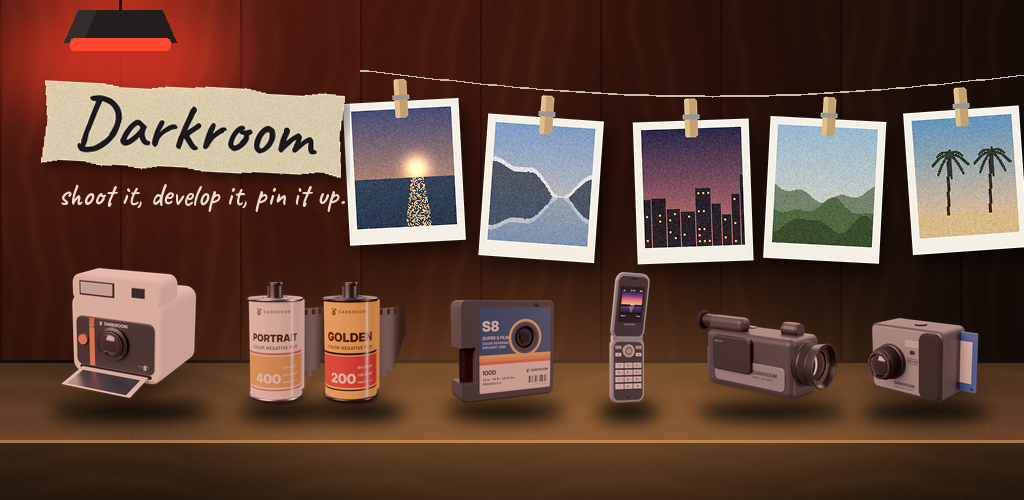
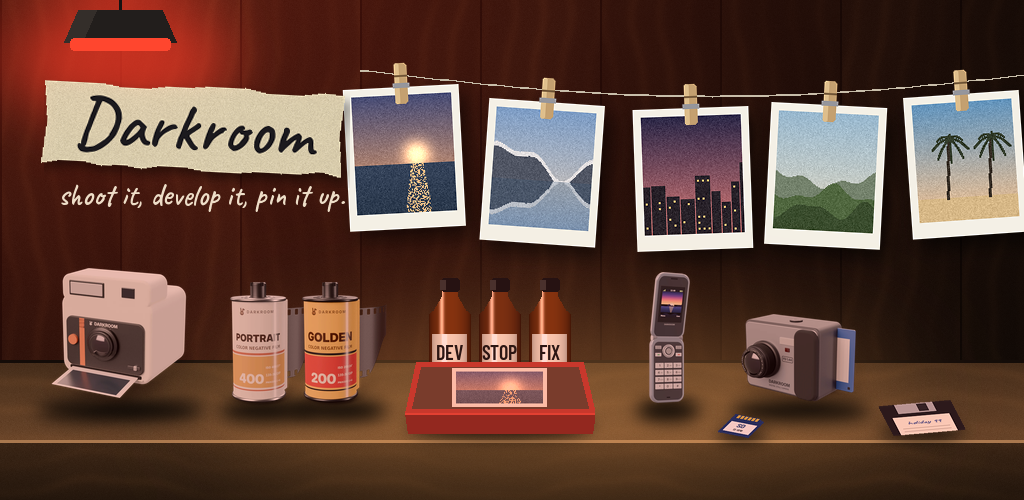
Store header: chemistry and a developing tray, SD card and floppy on the desk, pegs on the line

Changed region(s): [[0.0312, 0.12, 1.0, 0.9], [0.0312, 0.81, 0.0625, 0.84]]

diff --git a/tool/store/make_header.py b/tool/store/make_header.py
@@ -114,16 +114,133 @@ def print_card(kind, w, h, seed, rot):
     sh.paste((0, 0, 0, 150), (pad + 6, pad + 10, pad + w + 6, pad + h + 10))
     sh = sh.filter(ImageFilter.GaussianBlur(9))
     sh.alpha_composite(card, (pad, pad))
-    # a wooden peg at the top
+    # a wooden peg at the top, gripping the line at (cx, grip)
     d = ImageDraw.Draw(sh)
-    cx = pad + w // 2
-    d.rounded_rectangle([cx - 6, pad - 22, cx + 6, pad + 16], radius=3, fill=(196, 160, 112, 255))
-    d.rounded_rectangle([cx - 6, pad - 22, cx - 2, pad + 16], radius=2, fill=(222, 190, 140, 255))
-    d.rectangle([cx - 8, pad - 6, cx + 8, pad - 2], fill=(150, 150, 155, 255))
-    return sh.rotate(rot, resample=Image.BICUBIC, expand=True, center=(cx, pad - 20))
+    cx, grip = pad + w // 2, pad - 12
+    d.rounded_rectangle([cx - 6, grip - 12, cx + 6, pad + 16], radius=3, fill=(196, 160, 112, 255))
+    d.rounded_rectangle([cx - 6, grip - 12, cx - 2, pad + 16], radius=2, fill=(222, 190, 140, 255))
+    d.line([(cx - 6, grip), (cx + 6, grip)], fill=(120, 92, 60, 255), width=2)  # the jaw on the line
+    d.rectangle([cx - 8, pad - 4, cx + 8, pad], fill=(150, 150, 155, 255))
+    # swing it about the grip: a square canvas centred on that point
+    side = 2 * int(math.hypot(max(cx, sh.width - cx), max(grip, sh.height - grip))) + 2
+    big = Image.new('RGBA', (side, side), (0, 0, 0, 0))
+    big.alpha_composite(sh, (side // 2 - cx, side // 2 - grip))
+    return big.rotate(rot, resample=Image.BICUBIC)
 
 
-# --- the room --------------------------------------------------------------
+# --- things on the desk, drawn ---------------------------------------------
+
+LABEL = os.path.join(ROOT, 'assets', 'fonts', 'BarlowCondensed-SemiBold.ttf')
+
+
+def shaded(w, h, dark, light, hi=0.3):
+    """A cylinder's horizontal shading, dark edges, a highlight at [hi]."""
+    x = np.linspace(0, 1, w)
+    k = np.clip(np.sin(np.pi * x), 0, 1) ** 0.6 * 0.8 + 0.2
+    spec = np.exp(-((x - hi) ** 2) / 0.003) * 0.6
+    row = np.array(dark) + (np.array(light) - np.array(dark)) * k[:, None] + spec[:, None] * 255
+    return np.repeat(row[None], h, axis=0)
+
+
+def bottle(w, h, glass, label, text):
+    """A chemistry bottle: shouldered glass, black cap, a paper label."""
+    im = Image.new('RGBA', (w, h), (0, 0, 0, 0))
+    body = Image.fromarray(shaded(w, h, [c * 0.35 for c in glass], glass).clip(0, 255).astype(np.uint8)).convert('RGBA')
+    mask = Image.new('L', (w, h), 0)
+    md = ImageDraw.Draw(mask)
+    neck = w * 0.34
+    md.rounded_rectangle([0, h * 0.28, w - 1, h - 1], radius=int(w * 0.12), fill=255)
+    md.polygon([(0, h * 0.34), (w / 2 - neck / 2, h * 0.16), (w / 2 + neck / 2, h * 0.16), (w - 1, h * 0.34)], fill=255)
+    md.rectangle([w / 2 - neck / 2, h * 0.08, w / 2 + neck / 2, h * 0.2], fill=255)
+    im.paste(body, (0, 0), mask)
+    d = ImageDraw.Draw(im)
+    d.rounded_rectangle([w / 2 - neck / 2 - 2, 0, w / 2 + neck / 2 + 2, h * 0.11], radius=3, fill=(24, 22, 22, 255))
+    d.rectangle([w / 2 - neck / 2 - 2, h * 0.02, w / 2 - neck / 2 + 3, h * 0.1], fill=(60, 58, 56, 255))
+    # the label, a little curved by the shading under it
+    ly0, ly1 = int(h * 0.48), int(h * 0.82)
+    lab = shaded(int(w * 0.84), ly1 - ly0, [c * 0.7 for c in label], label, hi=0.35)
+    lim = Image.fromarray(lab.clip(0, 255).astype(np.uint8)).convert('RGBA')
+    ld = ImageDraw.Draw(lim)
+    f = ImageFont.truetype(LABEL, int((ly1 - ly0) * 0.5))
+    ld.text((lim.width / 2, lim.height * 0.45), text, font=f, fill=(30, 26, 24, 255), anchor='mm')
+    fs = ImageFont.truetype(LABEL, max(8, int((ly1 - ly0) * 0.18)))
+    ld.text((lim.width / 2, lim.height * 0.82), 'DARKROOM', font=fs, fill=(80, 70, 60, 255), anchor='mm')
+    im.alpha_composite(lim, (int(w * 0.08), ly0))
+    return im
+
+
+def tray(w, h, colour, print_kind):
+    """A developing tray seen from a little above: rim, the bath, a print
+    coming up in it, its front face."""
+    im = Image.new('RGBA', (w, h), (0, 0, 0, 0))
+    d = ImageDraw.Draw(im)
+    top = h * 0.72  # the rim's depth on screen
+    inset = w * 0.06
+    rim = [(inset, 0), (w - inset, 0), (w, top), (0, top)]
+    d.polygon(rim, fill=tuple(int(c * 1.0) for c in colour) + (255,))
+    # the bath inside the rim
+    b = 5
+    bath = [(inset + b, b), (w - inset - b, b), (w - b * 1.4, top - b), (b * 1.4, top - b)]
+    d.polygon(bath, fill=(74, 52, 40, 255))
+    # the print, coming up: a pale card with the picture half there
+    pw, ph = int(w * 0.46), int(top * 0.7)
+    pic = photo(print_kind, pw, ph, 77).convert('RGBA')
+    px = np.array(pic, float)
+    px[..., :3] = px[..., :3] * 0.8 + 255 * 0.14  # coming up
+    pic = Image.fromarray(px.clip(0, 255).astype(np.uint8))
+    card = Image.new('RGBA', (pw + 8, ph + 8), (236, 232, 220, 255))
+    card.alpha_composite(pic, (4, 4))
+    # squash it into the bath's perspective
+    card = card.resize((card.width, int(card.height * 0.9)))
+    im.alpha_composite(card, (int(w / 2 - card.width / 2), int(top / 2 - card.height / 2)))
+    # liquid sheen over it
+    sheen = Image.new('RGBA', (w, h), (0, 0, 0, 0))
+    ImageDraw.Draw(sheen).polygon(bath, fill=(255, 150, 120, 46))
+    im.alpha_composite(sheen)
+    # the front face below the rim
+    face = [(0, top), (w, top), (w - 3, h), (3, h)]
+    d.polygon(face, fill=tuple(int(c * 0.72) for c in colour) + (255,))
+    d.line([(0, top), (w, top)], fill=tuple(min(255, int(c * 1.15)) for c in colour) + (255,), width=2)
+    return im
+
+
+def flat(im, squash=0.42, turn=0):
+    """Something lying on the desk: turned, then seen at a low angle."""
+    im = im.rotate(turn, resample=Image.BICUBIC, expand=True)
+    return im.resize((im.width, max(1, int(im.height * squash))), Image.LANCZOS)
+
+
+def sd_card(w):
+    h = int(w * 1.33)
+    im = Image.new('RGBA', (w, h), (0, 0, 0, 0))
+    d = ImageDraw.Draw(im)
+    cut = w * 0.22
+    d.polygon([(0, 0), (w - cut, 0), (w, cut), (w, h), (0, h)], fill=(28, 52, 110, 255))
+    d.rectangle([w * 0.1, h * 0.36, w * 0.9, h * 0.86], fill=(232, 232, 236, 255))
+    f = ImageFont.truetype(LABEL, int(w * 0.3))
+    d.text((w / 2, h * 0.52), 'SD', font=f, fill=(28, 52, 110, 255), anchor='mm')
+    f2 = ImageFont.truetype(LABEL, int(w * 0.16))
+    d.text((w / 2, h * 0.74), '128MB', font=f2, fill=(60, 60, 70, 255), anchor='mm')
+    for i in range(6):
+        d.rectangle([w * 0.12 + i * w * 0.12, h * 0.04, w * 0.12 + i * w * 0.12 + w * 0.07, h * 0.16], fill=(200, 170, 80, 255))
+    return im
+
+
+def floppy(w):
+    im = Image.new('RGBA', (w, w), (0, 0, 0, 0))
+    d = ImageDraw.Draw(im)
+    d.rounded_rectangle([0, 0, w - 1, w - 1], radius=int(w * 0.03), fill=(30, 30, 34, 255))
+    d.rectangle([w * 0.22, 0, w * 0.74, w * 0.3], fill=(170, 172, 178, 255))  # the metal shutter
+    d.rectangle([w * 0.52, w * 0.04, w * 0.64, w * 0.26], fill=(40, 40, 44, 255))
+    d.rectangle([w * 0.12, w * 0.42, w * 0.88, w], fill=(236, 232, 220, 255))  # the label
+    f = ImageFont.truetype(FONT, int(w * 0.14))
+    d.text((w / 2, w * 0.62), 'holiday 99', font=f, fill=(40, 60, 140, 255), anchor='mm')
+    for y in (0.8, 0.9):
+        d.line([(w * 0.18, w * y), (w * 0.82, w * y)], fill=(170, 160, 150, 255), width=1)
+    return im
+
+
+# --- the room# --- the room --------------------------------------------------------------
 
 def walnut(w, h, seed, base, along=False):
     r = np.random.default_rng(seed)
@@ -176,7 +293,7 @@ def stage():
     for i, (kind, x, rot) in enumerate([('sea', 400, 3), ('lake', 548, -4), ('city', 690, 2),
                                          ('hills', 830, -3), ('palms', 960, 4)]):
         c = print_card(kind, 116, 142, 40 + i, rot)
-        img.alpha_composite(c, (int(x - c.width / 2), int(line_y(x) - 8)))
+        img.alpha_composite(c, (int(x - c.width / 2), int(line_y(x) - c.height / 2)))
 
     # the desk: its top running back to the wall, then its front edge
     top = walnut(W, front - desk_y, 7, (92, 60, 36), along=True)
@@ -195,24 +312,46 @@ def stage():
     warm.putalpha(pool)
     img.alpha_composite(warm)
 
-    # the things on it, standing on the desk's top edge
+    # the things on it: films and the instant camera on the left, the
+    # chemistry in the middle (bottles behind a tray with a print coming
+    # up), the digital camera and its media on the right
     base = desk_y + 58
-    for name, x, h in [('polaroid600', 130, 150), ('portra400', 285, 136), ('gold200', 360, 136),
-                       ('super8', 505, 118), ('flipphone', 628, 146), ('camcorder90', 772, 108),
-                       ('floppy99', 925, 100)]:
-        a = art(name)
-        a = a.resize((int(a.width * h / a.height), h), Image.LANCZOS)
-        shadow = Image.new('L', (W, H), 0)
-        ImageDraw.Draw(shadow).ellipse([x - a.width * 0.46, base - 16, x + a.width * 0.46, base + 2], fill=230)
-        shadow = shadow.filter(ImageFilter.GaussianBlur(8))
+
+    def shadow(x, w, y=base, depth=18):
+        m = Image.new('L', (W, H), 0)
+        ImageDraw.Draw(m).ellipse([x - w * 0.48, y - depth, x + w * 0.48, y + 2], fill=230)
+        m = m.filter(ImageFilter.GaussianBlur(8))
         sh = Image.new('RGBA', (W, H), (0, 0, 0, 0))
-        sh.putalpha(shadow)
+        sh.putalpha(m)
         img.alpha_composite(sh)
+
+    def lit(a):
         # lit by the room: a little of the safelight's red on everything
         px = np.array(a, float)
         px[..., :3] = px[..., :3] * np.array([1.0, 0.86, 0.82]) + np.array([14, 0, 0])
-        a = Image.fromarray(px.clip(0, 255).astype(np.uint8))
-        img.alpha_composite(a, (int(x - a.width / 2), base - h))
+        return Image.fromarray(px.clip(0, 255).astype(np.uint8))
+
+    def stand(a, x, y=base):
+        shadow(x, a.width, y)
+        img.alpha_composite(lit(a), (int(x - a.width / 2), y - a.height))
+
+    def sized(name, h):
+        a = art(name)
+        return a.resize((int(a.width * h / a.height), h), Image.LANCZOS)
+
+    stand(sized('polaroid600', 150), 120)
+    stand(sized('portra400', 136), 268)
+    stand(sized('gold200', 136), 340)
+    # chemistry: three bottles at the back, the tray in front of them
+    for x, glass, text in [(450, (120, 60, 20), 'DEV'), (500, (110, 56, 22), 'STOP'), (550, (120, 60, 20), 'FIX')]:
+        stand(bottle(42, 118, glass, (236, 228, 210), text), x, base - 22)
+    stand(tray(190, 72, (186, 66, 54), 'sea'), 500, base + 16)
+    stand(sized('flipphone', 146), 668)
+    stand(sized('floppy99', 104), 800)
+    # its media, lying on the desk in front
+    for im, x, y in [(flat(floppy(74), 0.42, 12), 922, base + 18), (flat(sd_card(34), 0.45, -24), 742, base + 20)]:
+        shadow(x, im.width, y, 10)
+        img.alpha_composite(lit(im), (int(x - im.width / 2), y - im.height))
 
     # the name on masking tape, stuck to the wall
     tape = Image.new('RGBA', (300, 92), (0, 0, 0, 0))
